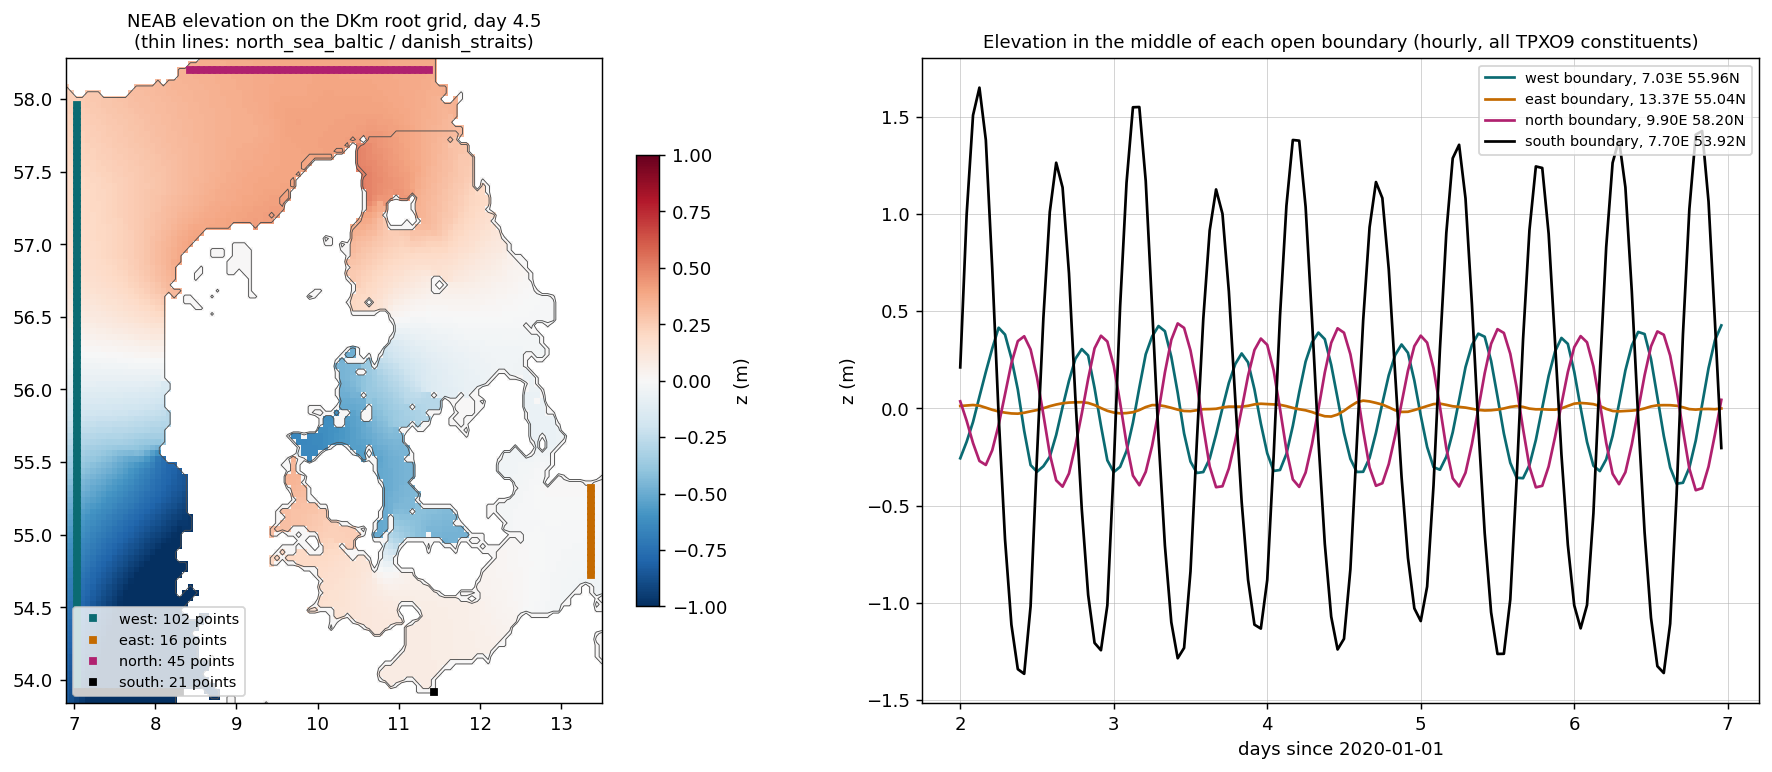
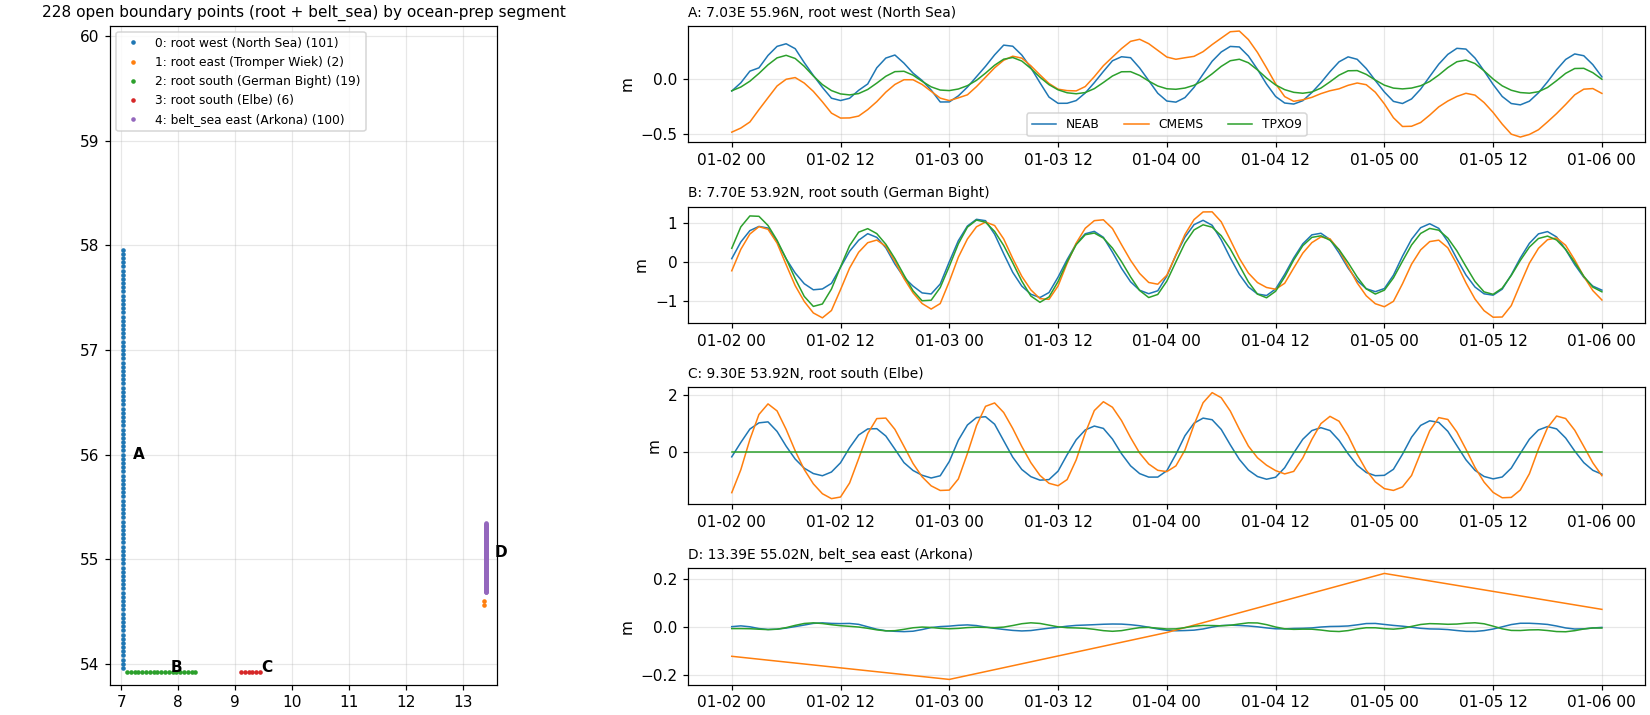
Fourth draft (Belt Sea with its own open boundary), open boundaries at the model's points, first tidal runs with three forcings

Changed region(s): [[0.0, 0.0, 1.0, 1.0]]

diff --git a/index.html b/index.html
@@ -1,6 +1,6 @@
 <!doctype html>
 <html lang="en"><head><meta charset="utf-8"><meta name="viewport" content="width=device-width,initial-scale=1">
-<title>DKm fjords</title><meta name="description" content="DKm: a nested pyGETM setup for the Danish waters and their fjords, 4 km to 57 m, Denmark's Depth Model at 50 m.">
+<title>DKm fjords</title><meta name="description" content="DKm: a nested pyGETM setup for the Danish waters and their fjords, 4 km to 57 m, Denmark's Depth Model at 50 m, first tidal runs.">
 <link rel="preconnect" href="https://fonts.googleapis.com"><link rel="preconnect" href="https://fonts.gstatic.com" crossorigin>
 <link rel="stylesheet" href="https://fonts.googleapis.com/css2?family=Archivo:wdth,wght@75..100,500..800&family=Source+Serif+4:ital,opsz,wght@0,8..60,400;0,8..60,600;1,8..60,400&family=JetBrains+Mono:wght@400;500&display=swap">
 <style>:root{box-sizing:border-box}body{margin:0;padding:0}img{max-width:100%}[hidden]{display:none!important}</style>
@@ -148,29 +148,35 @@ dialog#lightbox::backdrop { background: rgb(8 14 18 / 0.86); }
 .foot { margin-top: 3rem; padding-top: 1rem; border-top: 1px solid var(--rule); font-size: 0.88rem; color: var(--ink-2); }
 </style>
 <style>main > .chapter { max-width: var(--wide); }</style></head><body>
-<div class="topbar"><div class="topin"><a class="brand" href="#top">DKm</a><nav aria-label="Chapters"><a href="#layout">Layout</a><a href="#fjords">Fjords</a><a href="#bathymetry">Bathymetry</a><a href="#boundaries">Boundaries</a><a href="#status">Status</a></nav></div></div>
+<div class="topbar"><div class="topin"><a class="brand" href="#top">DKm</a><nav aria-label="Chapters"><a href="#layout">Layout</a><a href="#fjords">Fjords</a><a href="#bathymetry">Bathymetry</a><a href="#boundaries">Boundaries</a><a href="#tides">Tides</a><a href="#status">Status</a></nav></div></div>
 <main id="top">
 <header class="hero">
-  <p class="draft">Under development · updated 1 November 2026</p>
+  <p class="draft">Under development · updated 2 November 2026</p>
   <h1>DKm: the Danish waters and their fjords</h1>
   <p class="lede">A nested pyGETM setup for the Kattegat, the Belt Sea and the western Baltic, with the Danish
-  fjords at high resolution, starting with those of Jutland. A coarse root at 4 km carries the tides through the
-  straits; finer levels down to 60 m resolve the narrow sounds and the navigation channels of the fjords. The
-  bathymetry is Denmark's Depth Model at 50 m.</p>
+  fjords at high resolution, starting with those of Jutland. A coarse root at 4 km over the Skagerrak and the
+  Kattegat, a Belt Sea level at 700 m, and finer levels down to 60 m for the narrow sounds and the navigation
+  channels of the fjords. The bathymetry is Denmark's Depth Model at 50 m.</p>
   <dl class="facts">
-    <div><dt>levels</dt><dd>9</dd><p>4 km to 57 m</p></div>
+    <div><dt>levels</dt><dd>10</dd><p>4 km to 57 m</p></div>
     <div><dt>bathymetry</dt><dd>50 m</dd><p>Denmark's Depth Model</p></div>
-    <div><dt>root time step</dt><dd>20.6 s</dd><p>finest 1.3 s</p></div>
-    <div><dt>open boundary</dt><dd>NEAB</dd><p>hourly, all tidal constituents</p></div>
+    <div><dt>root time step</dt><dd>20.2 s</dd><p>finest 1.3 s</p></div>
+    <div><dt>open boundaries</dt><dd>228 points</dd><p>NEAB, TPXO9 or CMEMS</p></div>
   </dl>
 </header>
 <section id="layout" class="chapter"><header class="chap"><span class="eyebrow">Layout</span><h2>A coarse root and fine levels where the water is narrow</h2></header>
-<p>The root covers the Skagerrak, the Kattegat, the Belt Sea and the western Baltic, from the Danish North Sea
-coast to the narrowest section of the Arkona Sea (Kap Arkona–Sweden, 74 km of open boundary). At 4 km the Sound
-is closed at Helsingør and the Little Belt is land: their children connect them. Each child is a rectangle in its
-parent's grid; windows may not overlap, so neighbouring fjords share a child where their rectangles would.</p>
+<p>The root covers the Skagerrak up to the Oslo Fjord, the Kattegat, the Belt Sea and the western Baltic, from
+the Danish North Sea coast to the narrowest section of the Arkona Sea (Kap Arkona–Sweden). Its north edge is the
+Norwegian coast, not an open boundary across the Skagerrak. At 4 km the Sound is closed at Helsingør and the
+Little Belt is land: their levels connect them.</p>
+<p>The Belt Sea level (700 m, twice as fine as the Kattegat) reaches the root's south and east edges. It covers
+the whole German Baltic coast and owns the open boundary across the Arkona Sea; the root is masked behind it.
+The Little Belt, the Sound and the waters south of Sjælland nest in it at 235 m. Each child is a rectangle in its
+parent's grid; windows may not overlap, so neighbouring fjords share a child where their rectangles would. One
+row of root water still separates the Belt Sea from the Kattegat, until levels side by side can be coupled
+directly.</p>
 <figure class="fig wide"><button class="plate" type="button" data-full="fig/dkm_root.png" aria-label="Open The hierarchy full size"><img src="fig/dkm_root.png" alt="The hierarchy" loading="lazy"></button><figcaption><strong>The hierarchy</strong><p>The root's active depth; each child's window dashed, its active region solid.</p></figcaption></figure>
-<div class="tablewrap num"><table><thead><tr><th>Level</th><th>Area</th><th>Parent, ratio</th><th>Grid</th><th>Cells</th><th>Active</th><th>Time ratio</th><th>dt</th></tr></thead><tbody><tr><td>dkm_root</td><td>7.0–13.4°E, 53.9–58.22°N</td><td>–</td><td>96 × 108</td><td>4.1 × 4.5 km</td><td>5725</td><td>1</td><td>20.6 s</td></tr><tr><td>kattegat</td><td>Skagen–Grenå, Thyborøn–Sweden</td><td>root, 3</td><td>225 × 108</td><td>1.3 × 1.5 km</td><td>8537</td><td>2</td><td>10.3 s</td></tr><tr><td>limfjord_west</td><td>Thyborøn–Nibe Bredning</td><td>kattegat, 6</td><td>450 × 288</td><td>226 × 247 m</td><td>24501</td><td>2</td><td>5.2 s</td></tr><tr><td>limfjord_east</td><td>Aalborg–Hals</td><td>kattegat, 18</td><td>504 × 216</td><td>75 × 82 m</td><td>14986</td><td>5</td><td>2.1 s</td></tr><tr><td>mariager_randers</td><td>Mariager and Randers Fjord</td><td>kattegat, 24</td><td>672 × 528</td><td>57 × 62 m</td><td>29108</td><td>8</td><td>1.3 s</td></tr><tr><td>little_belt</td><td>Little Belt with Horsens, Vejle, Kolding, Haderslev, Aabenraa, Als and Flensborg Fjord</td><td>root, 16</td><td>240 × 496</td><td>264 × 278 m</td><td>38630</td><td>5</td><td>4.1 s</td></tr><tr><td>sound</td><td>Helsingør–Falsterbo</td><td>root, 16</td><td>160 × 336</td><td>262 × 278 m</td><td>27611</td><td>5</td><td>4.1 s</td></tr><tr><td>smaalandsfarvandet</td><td>South of Sjælland: Guldborgsund, Storstrøm, Grønsund, Ulvsund, Bøgestrøm</td><td>root, 16</td><td>320 × 288</td><td>266 × 278 m</td><td>46430</td><td>5</td><td>4.1 s</td></tr><tr><td>ringkobing_fjord</td><td>Ringkøbing Fjord (sluice at Hvide Sande)</td><td>root, 16</td><td>112 × 144</td><td>259 × 278 m</td><td>2572</td><td>2</td><td>10.3 s</td></tr></tbody></table></div>
+<div class="tablewrap num"><table><thead><tr><th>Level</th><th>Area</th><th>Parent, ratio</th><th>Grid</th><th>Cells</th><th>Active</th><th>Time ratio</th><th>dt</th></tr></thead><tbody><tr><td>dkm_root</td><td>7.0–13.4°E, 53.9–59.98°N, the whole Skagerrak to the Oslo Fjord</td><td>–</td><td>96 × 152</td><td>4.1 × 4.5 km</td><td>6432</td><td>1</td><td>20.2 s</td></tr><tr><td>kattegat</td><td>Skagen–Grenå, Thyborøn–Sweden</td><td>root, 3</td><td>225 × 108</td><td>1.3 × 1.5 km</td><td>9762</td><td>2</td><td>10.1 s</td></tr><tr><td>limfjord_west</td><td>Thyborøn–Nibe Bredning</td><td>kattegat, 6</td><td>450 × 288</td><td>226 × 247 m</td><td>24501</td><td>2</td><td>5.0 s</td></tr><tr><td>limfjord_east</td><td>Aalborg–Hals</td><td>kattegat, 18</td><td>504 × 216</td><td>75 × 82 m</td><td>14986</td><td>5</td><td>2.0 s</td></tr><tr><td>mariager_randers</td><td>Mariager and Randers Fjord</td><td>kattegat, 24</td><td>672 × 528</td><td>57 × 62 m</td><td>29108</td><td>8</td><td>1.3 s</td></tr><tr><td>belt_sea</td><td>South of the Kattegat to the Arkona Sea and the German coast, with its own open boundary</td><td>root, 6</td><td>378 × 372</td><td>705 × 741 m</td><td>60721</td><td>2</td><td>10.1 s</td></tr><tr><td>little_belt</td><td>Little Belt with Horsens, Vejle, Kolding, Haderslev, Aabenraa, Als and Flensborg Fjord</td><td>belt_sea, 3</td><td>270 × 558</td><td>235 × 247 m</td><td>48937</td><td>3</td><td>3.4 s</td></tr><tr><td>sound</td><td>Helsingør–Falsterbo with all of Køge Bugt</td><td>belt_sea, 3</td><td>252 × 366</td><td>232 × 247 m</td><td>37419</td><td>3</td><td>3.4 s</td></tr><tr><td>smaalandsfarvandet</td><td>South of Sjælland: Guldborgsund, Storstrøm, Grønsund, Ulvsund, Bøgestrøm</td><td>belt_sea, 3</td><td>360 × 324</td><td>237 × 247 m</td><td>58671</td><td>3</td><td>3.4 s</td></tr><tr><td>ringkobing_fjord</td><td>Ringkøbing Fjord (sluice at Hvide Sande)</td><td>root, 16</td><td>112 × 144</td><td>259 × 278 m</td><td>2572</td><td>2</td><td>10.1 s</td></tr></tbody></table></div>
 <p class="small">dt = 0.8 × pyGETM's <code>Domain.cfl_check</code>, the time ratio chosen per level. Active: the wet cells a level computes.
 The two finest children are about half of the work and their grids are 90 % land.</p>
 </section>
@@ -183,8 +189,8 @@ The two finest children are about half of the work and their grids are 90 % land
 <li>Mariager and Randers Fjord (200–500 m wide, dredged fairways) at 60 m.</li>
 <li>Their outer parts are 1–2 m deep: these levels need drying and flooding.</li></ul></div>
 <div><h4>The straits and the south</h4><ul>
-<li>Little Belt at 270 m with its fjords in the same level; Middelfart (70 m deep, 700 m wide) sets its time step.</li>
-<li>The Sound, Helsingør–Falsterbo, with open boundaries to the Kattegat and Køge Bugt.</li>
+<li>Little Belt at 235 m with its fjords in the same level; Middelfart (70 m deep, 700 m wide) sets its time step.</li>
+<li>The Sound, Helsingør–Falsterbo, with all of Køge Bugt.</li>
 <li>South of Sjælland: Guldborgsund connected through to the Baltic, with Storstrøm, Grønsund, Ulvsund and Bøgestrøm.</li>
 <li>Ringkøbing Fjord meets the sea only through the sluice at Hvide Sande: it needs a sluice connection, not ordinary nesting.</li></ul></div>
 </div>
@@ -196,22 +202,52 @@ lon/lat grid, and EMODnet is used only in water outside the DDM's coverage. Insi
 stays land. Every level takes its block means from this one product.</p>
 <figure class="fig wide"><button class="plate" type="button" data-full="fig/ddm_emodnet.png" aria-label="Open DDM and EMODnet full size"><img src="fig/ddm_emodnet.png" alt="DDM and EMODnet" loading="lazy"></button><figcaption><strong>DDM and EMODnet</strong><p>Overview and five zooms (the Sound, the Little Belt, the eastern Limfjord, Mariager and Randers, the Kattegat's Swedish side). Red line: the area filled from EMODnet; the seam at the EEZ border is smooth.</p></figcaption></figure>
 </section>
-<section id="boundaries" class="chapter"><header class="chap"><span class="eyebrow">Boundaries</span><h2>Tides from NEAB</h2></header>
-<p>In production the root will be forced by CMEMS or another model. For now its open boundaries come from a run of
-<a href="https://bolding.github.io/neab/">NEAB</a> (all TPXO9 constituents): NEAB writes hourly elevation and
-transports of its levels, and at every point of the DKm root's grid the finest NEAB level with water there is
-used. The file has the form of a CMEMS product, a lon/lat grid in time, which pyGETM interpolates to its open
-boundary points itself; the same code will read CMEMS later.</p>
-<figure class="fig wide"><button class="plate" type="button" data-full="fig/dkm_boundaries.png" aria-label="Open The forcing at the open boundaries full size"><img src="fig/dkm_boundaries.png" alt="The forcing at the open boundaries" loading="lazy"></button><figcaption><strong>The forcing at the open boundaries</strong><p>Left: NEAB's elevation on the root's grid and the root's open boundary points. Right: elevation in the middle of each boundary. The North Sea and Skagerrak tides are about ±0.4 m, Arkona about ±3 cm; the south edge at 53.9°N crosses the German Bight off the Elbe and Weser, with ±1.4 m.</p></figcaption></figure>
+<section id="boundaries" class="chapter"><header class="chap"><span class="eyebrow">Boundaries</span><h2>Open boundaries at the model's own points</h2></header>
+<p>Two levels have open boundaries: the root on its outer edges (128 points) and the Belt Sea level across the
+Arkona Sea (100 points at 700 m). The points are the wet cells on those edges that each level computes, taken
+from the bathymetry, and are kept with the setup as a lon/lat list. As in the OceanICU NSe setup, a boundary file
+holds the values at exactly these points and pyGETM reads them on its grid, without interpolation. One file
+serves both levels; each reads its own points from it.</p>
+<div class="twocol">
+<div><h4>Sources</h4><ul>
+<li><a href="https://bolding.github.io/neab/">NEAB</a> (all TPXO9 constituents), sampled hourly at the points: elevation and transports.</li>
+<li>CMEMS with ocean-prep: the North-West Shelf reanalysis (hourly, tidal) and the Baltic reanalysis at Arkona (daily). The Baltic sea level has another datum; it is shifted to the North Sea level as in NSe.</li>
+<li>TPXO9 directly (it has no data in the Elbe, so that stretch of boundary is dead).</li></ul></div>
+<div><h4>Flather</h4><ul>
+<li>Transports (NEAB, TPXO9): pyGETM's FLATHER_TRANSPORT.</li>
+<li>Depth-mean velocities (CMEMS): FLATHER_ELEV.</li>
+<li>The type is taken from the variables in the file.</li></ul></div>
+</div>
+<figure class="fig wide"><button class="plate" type="button" data-full="fig/dkm_boundaries.png" aria-label="Open The open boundary points and their forcing full size"><img src="fig/dkm_boundaries.png" alt="The open boundary points and their forcing" loading="lazy"></button><figcaption><strong>The open boundary points and their forcing</strong><p>Left: the 228 points by ocean-prep segment (root: North Sea, Tromper Wiek, German Bight, Elbe; Belt Sea: Arkona). Right: elevation in the middle of each segment from NEAB, CMEMS and TPXO9, 2–6 January 2020.</p></figcaption></figure>
+</section>
+<section id="tides" class="chapter"><header class="chap"><span class="eyebrow">Tides</span><h2>First tidal runs: the forcing sets the Kattegat</h2></header>
+<p>Ten levels, 2D, one day of spin-up and seven days from 2 January 2020, 64 cores, 82 minutes per run, bottom
+roughness 0.015 m as in NEAB. M2 from a seven-day fit, at the GESLA gauges from the finest level with water there.
+These runs used the third draft of the layout (the root kept the Arkona boundary); runs of the current layout
+are under way.</p>
+<figure class="fig wide"><button class="plate" type="button" data-full="fig/dkm_m2.png" aria-label="Open M2 amplitude with three open-boundary forcings full size"><img src="fig/dkm_m2.png" alt="M2 amplitude with three open-boundary forcings" loading="lazy"></button><figcaption><strong>M2 amplitude with three open-boundary forcings</strong><p>The same DKm with its open boundaries from NEAB, TPXO9 and CMEMS. Dots: the gauges, coloured by the observed amplitude. Right: model against observed.</p></figcaption></figure>
+<div class="tablewrap num"><table><thead><tr><th>Gauge</th><th>observed</th><th>NEAB</th><th>TPXO9</th><th>CMEMS</th></tr></thead><tbody>
+<tr><td>Skagen</td><td>0.138 m</td><td>0.273 m</td><td>0.147 m</td><td>0.098 m</td></tr>
+<tr><td>Frederikshavn</td><td>0.140 m</td><td>0.281 m</td><td>0.151 m</td><td>0.099 m</td></tr>
+<tr><td>Aarhus</td><td>0.168 m</td><td>0.292 m</td><td>0.180 m</td><td>0.088 m</td></tr>
+<tr><td>Juelsminde (Little Belt)</td><td>0.183 m</td><td>0.305 m</td><td>0.191 m</td><td>0.095 m</td></tr>
+<tr><td>Hornbæk (Sound)</td><td>0.070 m</td><td>0.141 m</td><td>0.077 m</td><td>0.042 m</td></tr>
+<tr><td>Gedser</td><td>0.038 m</td><td>0.058 m</td><td>0.030 m</td><td>0.011 m</td></tr>
+<tr><td>Median model/obs</td><td></td><td>1.80</td><td>1.09</td><td>0.70</td></tr>
+</tbody></table></div>
+<p>With TPXO9 at its boundaries DKm reproduces the tide of the Kattegat and the Belts. NEAB's tide is twice too
+large and CMEMS's a third too small, from the Skagerrak inwards. Both come in through the northern part of the
+west boundary, near the Skagerrak amphidrome: at 57.5–58°N the M2 there is 0.16 m in NEAB and 0.04 m in CMEMS.
+DKm itself is not the cause. The Wadden Sea gauges are poor with every forcing: the root has 4 km cells there.</p>
 </section>
 <section id="status" class="chapter"><header class="chap"><span class="eyebrow">Status</span><h2>Where it stands</h2></header>
 <div class="statusgrid">
-<div><h4>Done</h4><ul><li>Layout of nine levels, evaluated with pyGETM's own time step check.</li><li>Bathymetry product from the DDM and EMODnet.</li><li>Open-boundary forcing from NEAB.</li></ul></div>
-<div><h4>Next</h4><ul><li>The bathymetry of every level, with the masks made consistent between levels and the dredged channels as thalwegs.</li><li>A first tidal run.</li></ul></div>
-<div><h4>Open</h4><ul><li>Sluice connections (Ringkøbing Fjord; Nissum Fjord is not in the DDM).</li><li>The fjords of the islands (Isefjord, Roskilde Fjord, Odense Fjord, …).</li><li>The root's south edge in the German Bight.</li></ul></div>
+<div><h4>Done</h4><ul><li>Ten levels, evaluated with pyGETM's own time step check; bathymetry of every level from the DDM and EMODnet.</li><li>Open boundaries at the model's points from NEAB, TPXO9 and CMEMS; a child level with its own open boundary.</li><li>Eight-day tidal runs with three forcings.</li></ul></div>
+<div><h4>Next</h4><ul><li>Runs of the current layout.</li><li>Coupling levels side by side (the Belt Sea directly against the Kattegat).</li><li>The dredged channels as thalwegs in the bathymetry.</li></ul></div>
+<div><h4>Open</h4><ul><li>Sluice connections (Ringkøbing Fjord; Nissum Fjord is not in the DDM).</li><li>The fjords of the islands (Isefjord, Roskilde Fjord, Odense Fjord, …).</li><li>The Wadden Sea.</li></ul></div>
 </div>
 </section>
-<footer class="foot"><p>Contains data from Denmark's Depth Model (DDM) v2.0, Geodatastyrelsen, downloaded 1 November 2026; EMODnet Bathymetry; TPXO9 tides through <a href="https://bolding.github.io/neab/">NEAB</a>. Built with the two-way nesting for pyGETM developed by Bolding &amp; Bruggeman (fork <code>bolding/pygetm</code>, branch <code>nesting-mpmd</code>); the code of the setup is not public yet.</p><p>Karsten Bolding, Bolding &amp; Bruggeman.</p></footer>
+<footer class="foot"><p>Contains data from Denmark's Depth Model (DDM) v2.0, Geodatastyrelsen, downloaded 1 November 2026; EMODnet Bathymetry; E.U. Copernicus Marine Service Information (NWSHELF_MULTIYEAR_PHY_004_009, BALTICSEA_MULTIYEAR_PHY_003_011); GESLA tide gauges; TPXO9 tides, directly and through <a href="https://bolding.github.io/neab/">NEAB</a>. Built with the two-way nesting for pyGETM developed by Bolding &amp; Bruggeman (fork <code>bolding/pygetm</code>, branch <code>nesting-mpmd</code>); the code of the setup is not public yet.</p><p>Karsten Bolding, Bolding &amp; Bruggeman.</p></footer>
 </main>
 <dialog id="lightbox" aria-label="Figure"><button type="button" id="lbclose" aria-label="Close">Close</button><img id="lbimg" alt=""></dialog>
 <script>(function () {
